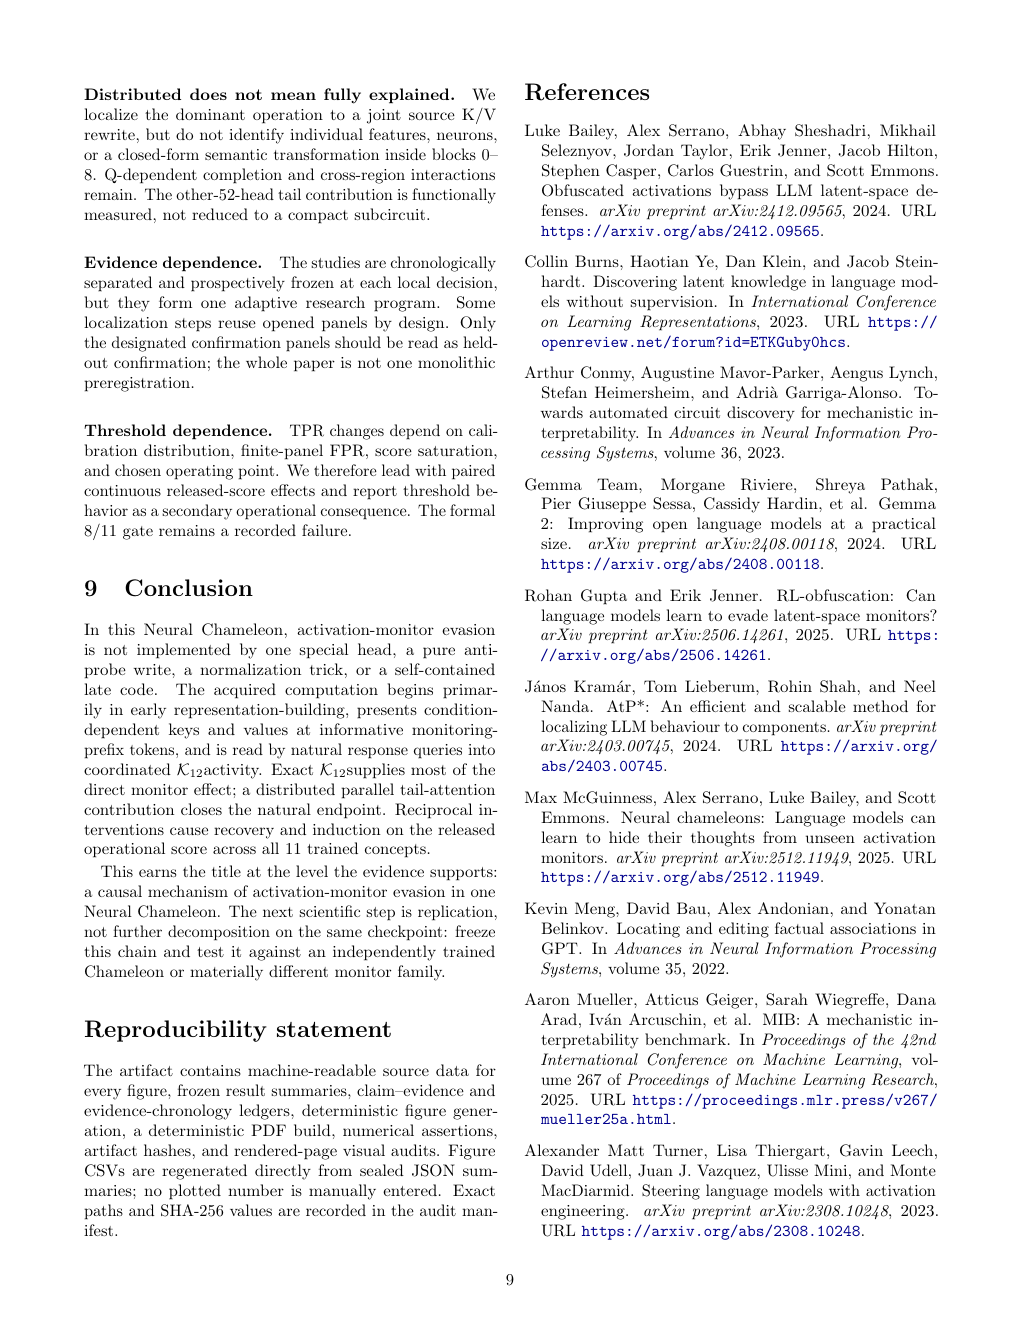
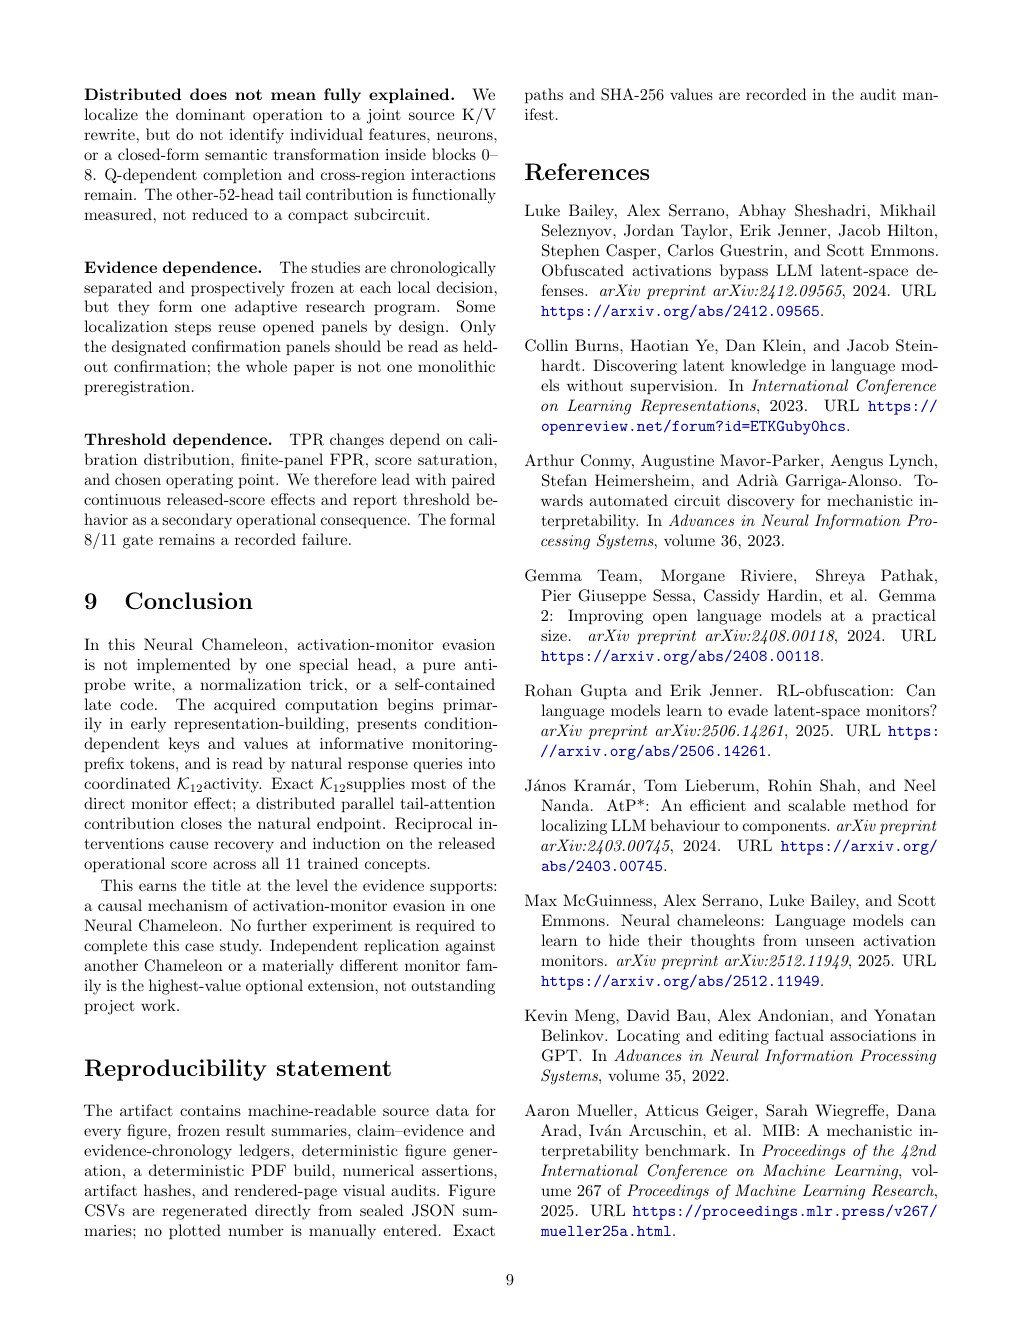
Rebuild final manuscript after project closeout

Changed region(s): [[0.5167, 0.0621, 0.9118, 0.9629], [0.0608, 0.1864, 0.4863, 0.9629]]

diff --git a/paper-v2/audits/visual-qa.md b/paper-v2/audits/visual-qa.md
@@ -15,7 +15,7 @@ at original rendered resolution on 2026-08-13.
 | 6 | Upstream and operational results | Pass: equations and headings remain with their text |
 | 7 | Figure 4, integrated chain, related work | Pass: log axis and hybrid labels legible |
 | 8 | Figure 5 and limitations | Pass: threshold diagnostic and claim-scope matrix legible |
-| 9 | Limitations close, conclusion, references | Pass: no broken URLs or bibliography overflow |
+| 9 | Limitations close, conclusion, references | Pass: final scope/closure language is legible; no broken URLs or bibliography overflow |
 | 10 | References and appendices A--D | Pass: appendix transition and component table legible |
 | 11 | Appendix Tables 2--5 | Pass: all numerical cells and claim boundaries contained |
 
@@ -30,3 +30,7 @@ at original rendered resolution on 2026-08-13.
 
 The rendered page files in `rendered-pages/` correspond one-to-one with the final
 11-page PDF.
+
+The project-closeout refresh was rebuilt from source commit
+`ea131c9946223cf642a520d6643cd667a0634b71` and all 11 pages were reinspected after
+the conclusion changed. No new visual defect was introduced.
